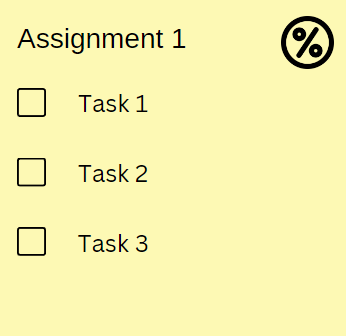
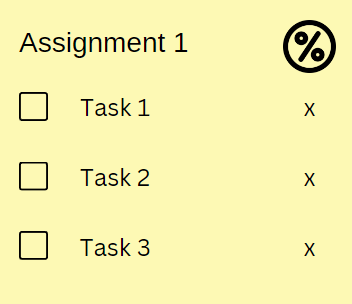
Made the tasks editable

diff --git a/src/components/StickyNote.jsx b/src/components/StickyNote.jsx
@@ -1,118 +1,24 @@
 import { useState, useRef } from "react";
-import '../App.css';
+import '../stickyNote.css';
 
-// function StickyNote({ onClose, type }) {
-//     const [allowMove, setAllowMove] = useState(false);
-//     const [tasks, setTasks] = useState([]); // State to track tasks
-//     const [newTask, setNewTask] = useState(""); // State to track new task input
-//     const stickyNoteRef = useRef();
-
-//     const [dx, setDx] = useState(0)
-//     const [dy, setDy] = useState(0)
-
-//     function handleMouseDown(e) {
-//         setAllowMove(true)
-//         const dimensions = stickyNoteRef.current.getBoundingClientRect()
-//         setDx(e.clientX - dimensions.x)
-//         setDy(e.clientY - dimensions.y)
-//     }
-//     function handleMouseMove(e) {
-//         if (allowMove) {
-//             // move the sticky note
-//             console.log("allow moving - ", e.clientX, dx, e.clientY, dy)
-//             const x = e.clientX - dx
-//             const y = e.clientY - dy
-//             console.log("inside mouse move", x, y)
-//             stickyNoteRef.current.style.left = x + "px"
-//             stickyNoteRef.current.style.top = y + "px"
-//         }
-//     }
-//     function handleMouseUp() {
-//         setAllowMove(false)
-//     }
-
-//     // handle task related behaviour
-//     function handleNewTaskChange(e) {
-//         setNewTask(e.target.value);
-//     }
-
-//     function addTask() {
-//         if (newTask.trim()) {
-//             setTasks([...tasks, { id: Date.now(), text: newTask, completed: false }]);
-//             setNewTask("");
-//         }
-//     }
-
-//     function toggleTaskCompletion(taskId) {
-//         setTasks(tasks.map((task) => 
-//             task.id === taskId ? { ...task, completed: !task.completed } : task
-//         ));
-//     }
-
-//     function removeTask(taskId) {
-//         setTasks(tasks.filter((task) => task.id !== taskId));
-//     }
-
-//     return (
-//         <div className="sticky-note" ref={stickyNoteRef}>
-//             <div
-//                 className="sticky-note-header"
-//                 onMouseDown={handleMouseDown}
-//                 onMouseMove={handleMouseMove}
-//                 onMouseUp={handleMouseUp}
-//             >
-//                 <input className="sticky-note-title" placeholder="Enter Note Title" />
-//                 <div className="close" onClick={onClose}>
-//                     &times;
-//                 </div>
-//             </div>
-//             {type === "task" && (
-//                 <div className="sticky-note-body checklist">
-//                     {/* Input field to add new tasks */}
-//                     <div>
-//                         <input
-//                             type="text"
-//                             value={newTask}
-//                             onChange={handleNewTaskChange}
-//                             placeholder="Add a new task..."
-//                         />
-//                         <button onClick={addTask}>Add</button>
-//                     </div>
-
-//                     {/* Render the list of tasks */}
-//                     <ul>
-//                         {tasks.map((task) => (
-//                             <li key={task.id}>
-//                                 <input
-//                                     type="checkbox"
-//                                     checked={task.completed}
-//                                     onChange={() => toggleTaskCompletion(task.id)}
-//                                 />
-//                                 <span style={{ textDecoration: task.completed ? "line-through" : "none" }}>
-//                                     {task.text}
-//                                 </span>
-//                                 <button onClick={() => removeTask(task.id)}>Remove</button>
-//                             </li>
-//                         ))}
-//                     </ul>
-//                 </div>
-//             )}
-//             {type === "freeText" && (
-//                 <textarea placeholder="Enter text here" className="sticky-note-body"></textarea>
-//             )}
-//         </div>
-//     )
-// }
-
-// export default StickyNote;
 function StickyNote({ onClose, type }) {
-    const [allowMove, setAllowMove] = useState(false);
-    const [tasks, setTasks] = useState([]);
-    const [newTask, setNewTask] = useState("");
+    // Get a reference to a sticky note
     const stickyNoteRef = useRef();
+    // Create states for moving a sticky note and its current coordinates
+    const [allowMove, setAllowMove] = useState(false);
 
     const [dx, setDx] = useState(0);
     const [dy, setDy] = useState(0);
+
+    // Initialize tasks with an array of default tasks
+    const [tasks, setTasks] = useState([
+        { id: 1, text: "Task 1", completed: false },
+        { id: 2, text: "Task 2", completed: false },
+        { id: 3, text: "Task 3", completed: false },
+    ]);
+
+    // State for the task currently being edited
+    const [editingTaskId, setEditingTaskId] = useState(null);
 
     // Function to handle mouse down event
     function handleMouseDown(e) {
@@ -137,19 +43,7 @@ function StickyNote({ onClose, type }) {
         setAllowMove(false);
     }
 
-    // Handle task related behavior
-    function handleNewTaskChange(e) {
-        setNewTask(e.target.value);
-    }
-
-    function addTask() {
-        if (newTask.trim()) {
-            const task = { id: Date.now(), text: newTask, completed: false };
-            setTasks((prevTasks) => [...prevTasks, task]);
-            setNewTask("");
-        }
-    }
-
+    // Function to toggle task completion
     function toggleTaskCompletion(taskId) {
         setTasks((prevTasks) =>
             prevTasks.map((task) =>
@@ -158,8 +52,30 @@ function StickyNote({ onClose, type }) {
         );
     }
 
+    // Function to remove a task
     function removeTask(taskId) {
         setTasks((prevTasks) => prevTasks.filter((task) => task.id !== taskId));
+    }
+
+    // Function to handle starting task editing
+    function startEditingTask(taskId) {
+        setEditingTaskId(taskId);
+    }
+
+    // Function to handle input change during task editing
+    function handleInputChange(e) {
+        const newValue = e.target.value;
+        // Update the text of the task being edited
+        setTasks((prevTasks) =>
+            prevTasks.map((task) =>
+                task.id === editingTaskId ? { ...task, text: newValue } : task
+            )
+        );
+    }
+
+    // Function to handle finishing task editing
+    function finishEditingTask() {
+        setEditingTaskId(null);
     }
 
     return (
@@ -177,31 +93,32 @@ function StickyNote({ onClose, type }) {
             </div>
             {type === "task" && (
                 <div className="sticky-note-body checklist">
-                    <div>
-                        <input
-                            type="text"
-                            value={newTask}
-                            onChange={handleNewTaskChange}
-                            placeholder="Add a new task..."
-                        />
-                        <button onClick={addTask}>Add</button>
-                    </div>
-
-                    <ul>
-                        {tasks.map((task) => (
-                            <li key={task.id}>
+                    {/* Render tasks as individual div elements */}
+                    {tasks.map((task) => (
+                        <div key={task.id}>
+                            <input
+                                type="checkbox"
+                                checked={task.completed}
+                                onChange={() => toggleTaskCompletion(task.id)}
+                            />
+                            {editingTaskId === task.id ? (
                                 <input
-                                    type="checkbox"
-                                    checked={task.completed}
-                                    onChange={() => toggleTaskCompletion(task.id)}
+                                    type="text"
+                                    value={task.text}
+                                    onChange={handleInputChange}
+                                    onBlur={finishEditingTask}
                                 />
-                                <span style={{ textDecoration: task.completed ? "line-through" : "none" }}>
+                            ) : (
+                                <span
+                                    style={{ textDecoration: task.completed ? "line-through" : "none" }}
+                                    onClick={() => startEditingTask(task.id)}
+                                >
                                     {task.text}
                                 </span>
-                                <button onClick={() => removeTask(task.id)}>Remove</button>
-                            </li>
-                        ))}
-                    </ul>
+                            )}
+                            <button className="removing-a-task" onClick={() => removeTask(task.id)}>x</button>
+                        </div>
+                    ))}
                 </div>
             )}
             {type === "freeText" && (

diff --git a/src/components/StickyNoteChoice.jsx b/src/components/StickyNoteChoice.jsx
@@ -1,33 +1,3 @@
-// import React from "react";
-// import "../stickyNotePopUp.css";
-// import TaskList from "../photosAndIcons/TaskList.png";
-// import FreeTextNote from "../photosAndIcons/FreeTextNote.png";
-
-// function StickyNoteChoice({ isVisible, onClose, onTaskNote, onFreeTextNote }) {
-//     if (!isVisible) return null; // If not visible, don't render the component
-
-//     return (
-//         <div className="popup-overlay">
-//             <div className="popup-form">
-//                 <form>
-//                     <div>
-//                         <p>Please select one of the 2 available options:</p>
-//                         <button type="button" onClick={onTaskNote}>
-//                             Task List
-//                             <img src={TaskList} alt="taskListStickyNote" />
-//                         </button>
-//                         <button type="button" onClick={onFreeTextNote}>
-//                             Free Text
-//                             <img src={FreeTextNote} alt="freeTextStickyNote" />
-//                         </button>
-//                     </div>
-//                 </form>
-//             </div>
-//         </div>
-//     );
-// }
-
-// export default StickyNoteChoice;
 import React from "react";
 import "../stickyNotePopUp.css";
 import TaskList from "../photosAndIcons/TaskList.png";
